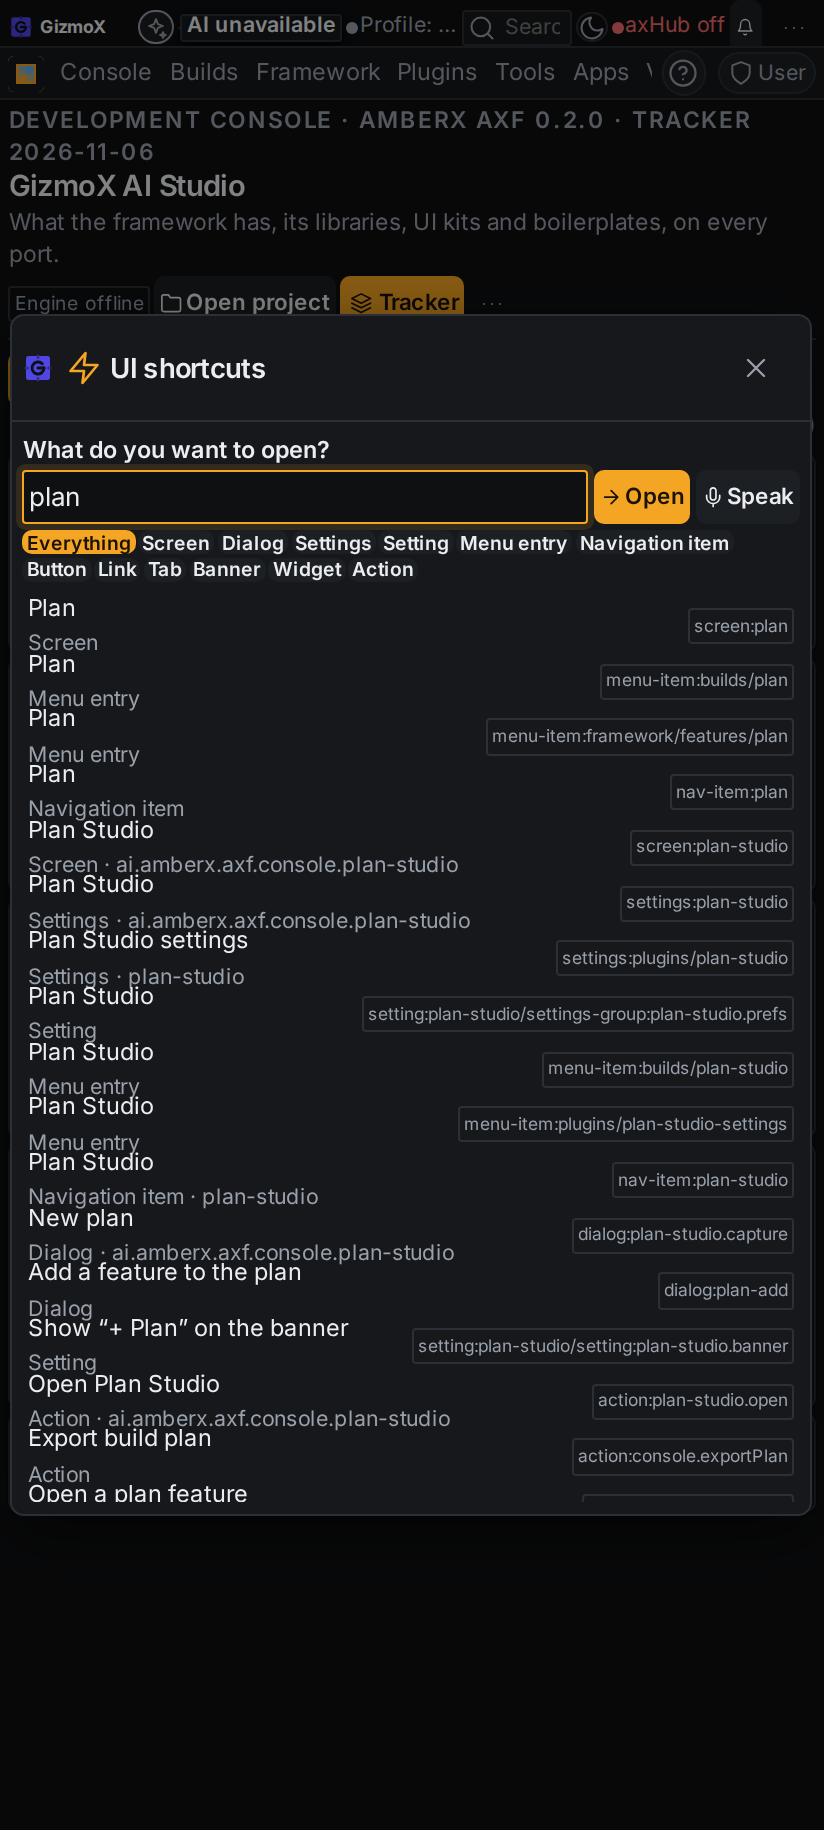
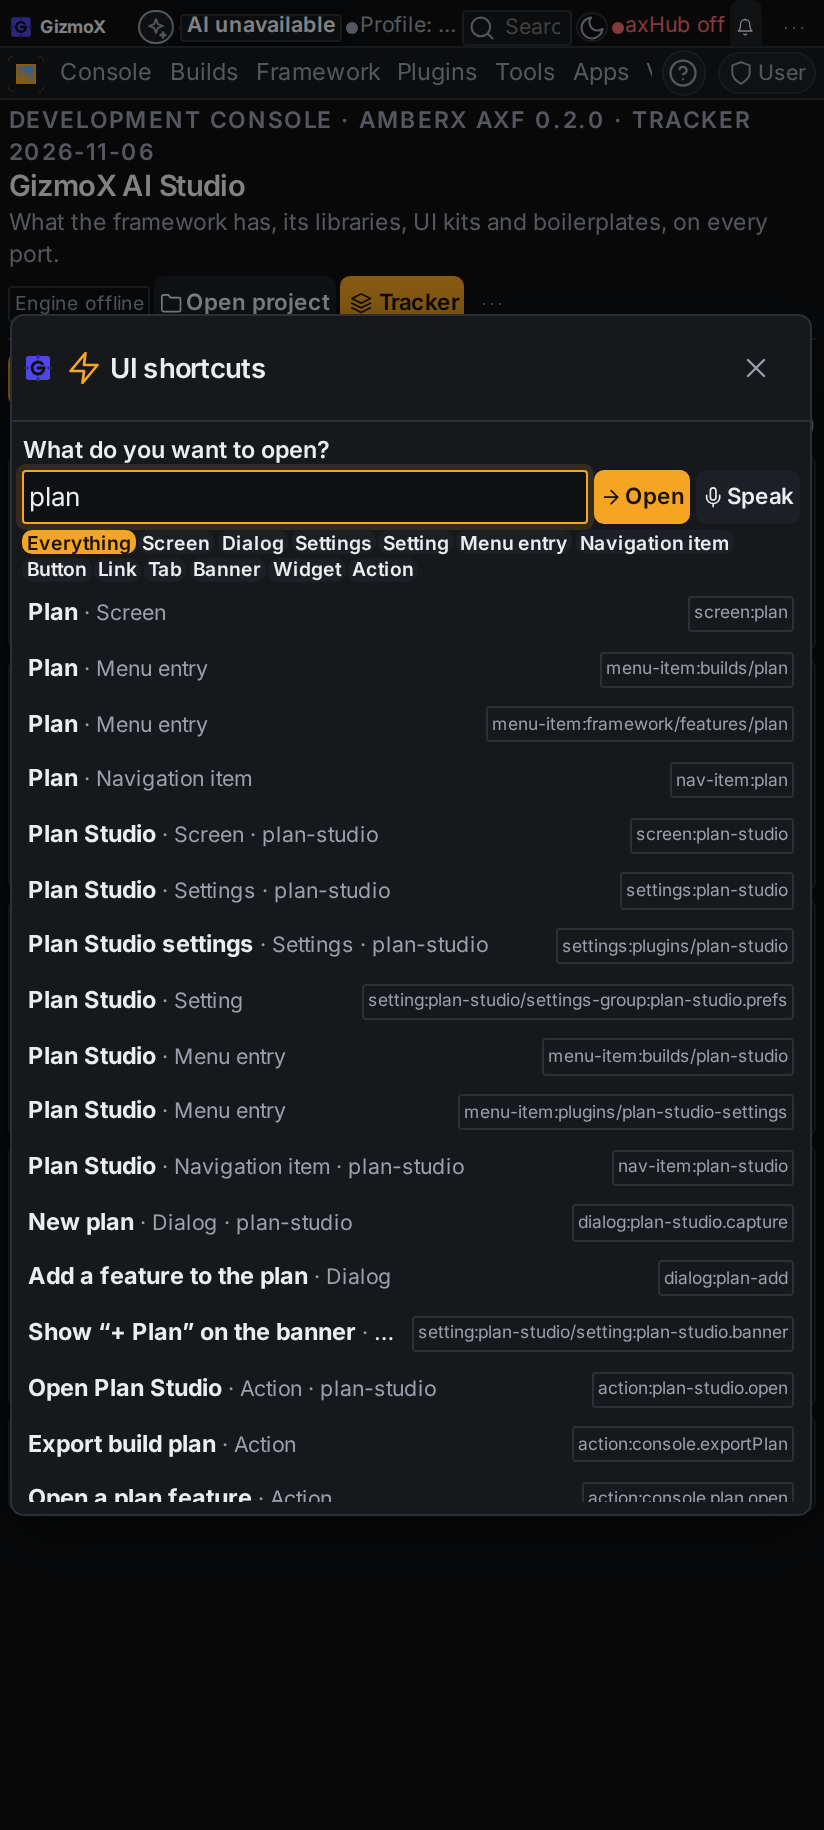
UI shortcuts: one-line quick-open rows (label · kind · owner, id chip at the right); fresh screenshots

diff --git a/apps/console-web/plugins/ui-shortcuts/web/index.tsx b/apps/console-web/plugins/ui-shortcuts/web/index.tsx
@@ -175,7 +175,7 @@ function QuickOpen({ close }: { close: () => void }) {
         {hits.map((h) => (
           // a menu-style row (the framework's fx-menu__item: hover and focus from the engines), laid out as label + id
           <button key={h.id} type="button" className="fx-menu__item axp-ui-shortcuts__hit" onClick={() => open(h)} data-help="ui-hit" role="listitem" title={h.id}>
-            <span className="axp-ui-shortcuts__hit-text"><span>{h.label}</span><span className="fx-muted">{UI_KIND_LABELS[h.kind] ?? h.kind}{h.owner && h.owner !== 'app' ? ` · ${h.owner.replace(/^(plugin|library):/, '')}` : ''}{h.app && h.app !== APP ? ` · ${h.app}` : ''}</span></span>
+            <span className="axp-ui-shortcuts__hit-text"><strong>{h.label}</strong><span className="fx-muted"> · {UI_KIND_LABELS[h.kind] ?? h.kind}{h.owner && h.owner !== 'app' ? ` · ${h.owner.replace(/^(plugin|library):/, '').replace(/^ai\.amberx\.axf\.console\./, '')}` : ''}{h.app && h.app !== APP ? ` · ${h.app}` : ''}</span></span>
             <Chip>{h.id}</Chip>
           </button>
         ))}

diff --git a/apps/console-web/plugins/ui-shortcuts/web/ui-shortcuts.css b/apps/console-web/plugins/ui-shortcuts/web/ui-shortcuts.css
@@ -5,8 +5,7 @@
 .axp-ui-shortcuts__kinds { display: flex; flex-wrap: wrap; gap: calc(var(--fx-space) / 2); }
 .axp-ui-shortcuts__hits { display: grid; gap: calc(var(--fx-space) / 2); max-height: 50vh; overflow: auto; }
 .axp-ui-shortcuts__hit { display: grid; grid-template-columns: 1fr auto; align-items: center; gap: var(--fx-dens-gap-xl); text-align: left; width: 100%; }
-.axp-ui-shortcuts__hit-text { display: grid; gap: calc(var(--fx-space) / 4); min-width: 0; }
-.axp-ui-shortcuts__hit-text > span:last-child { overflow: hidden; text-overflow: ellipsis; white-space: nowrap; }
+.axp-ui-shortcuts__hit-text { min-width: 0; overflow: hidden; text-overflow: ellipsis; white-space: nowrap; }
 .axp-ui-shortcuts__rows { display: grid; gap: calc(var(--fx-space) / 2); }
 .axp-ui-shortcuts__row { display: grid; grid-template-columns: 1fr 1fr auto; align-items: center; gap: var(--fx-dens-gap-xl); }
 .axp-ui-shortcuts__row-text { display: grid; gap: calc(var(--fx-space) / 4); min-width: 0; }
